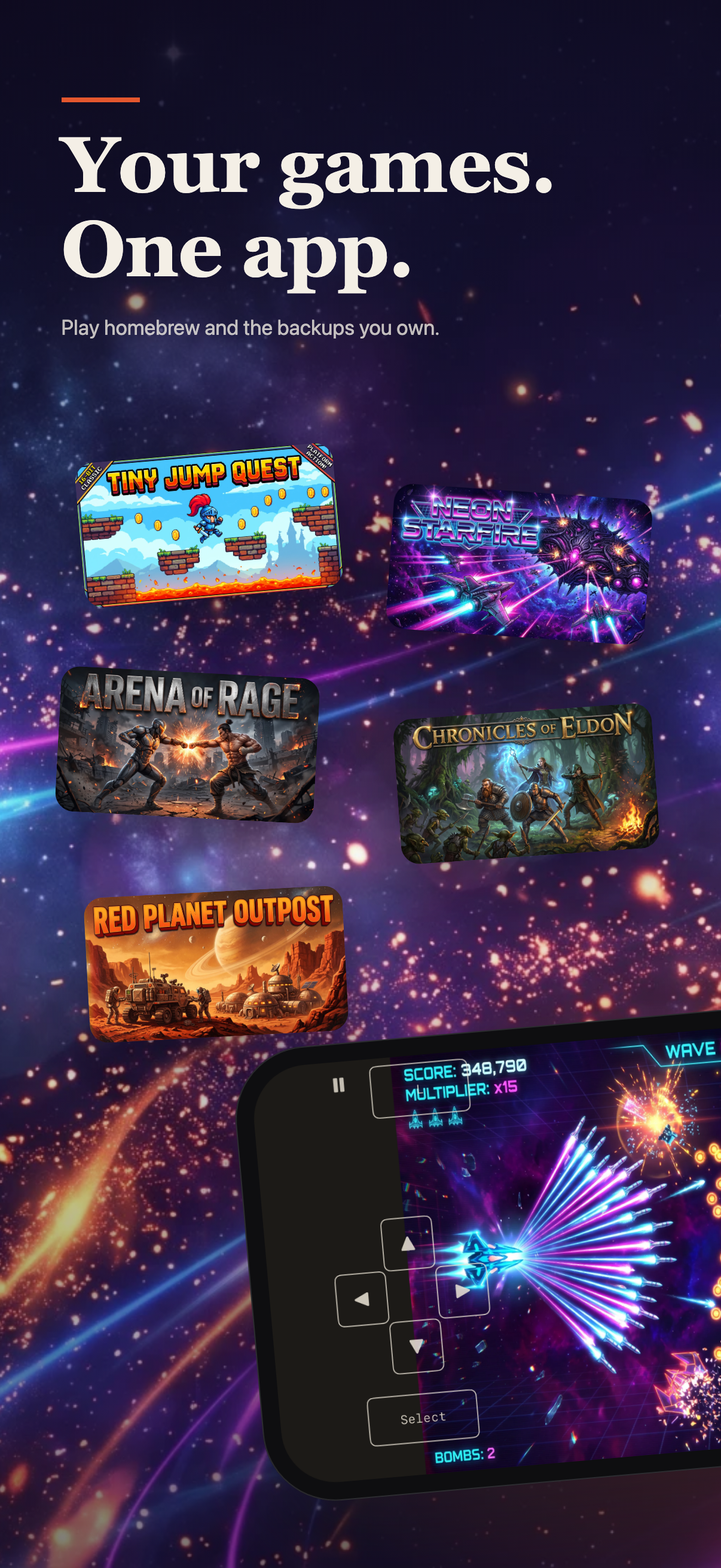
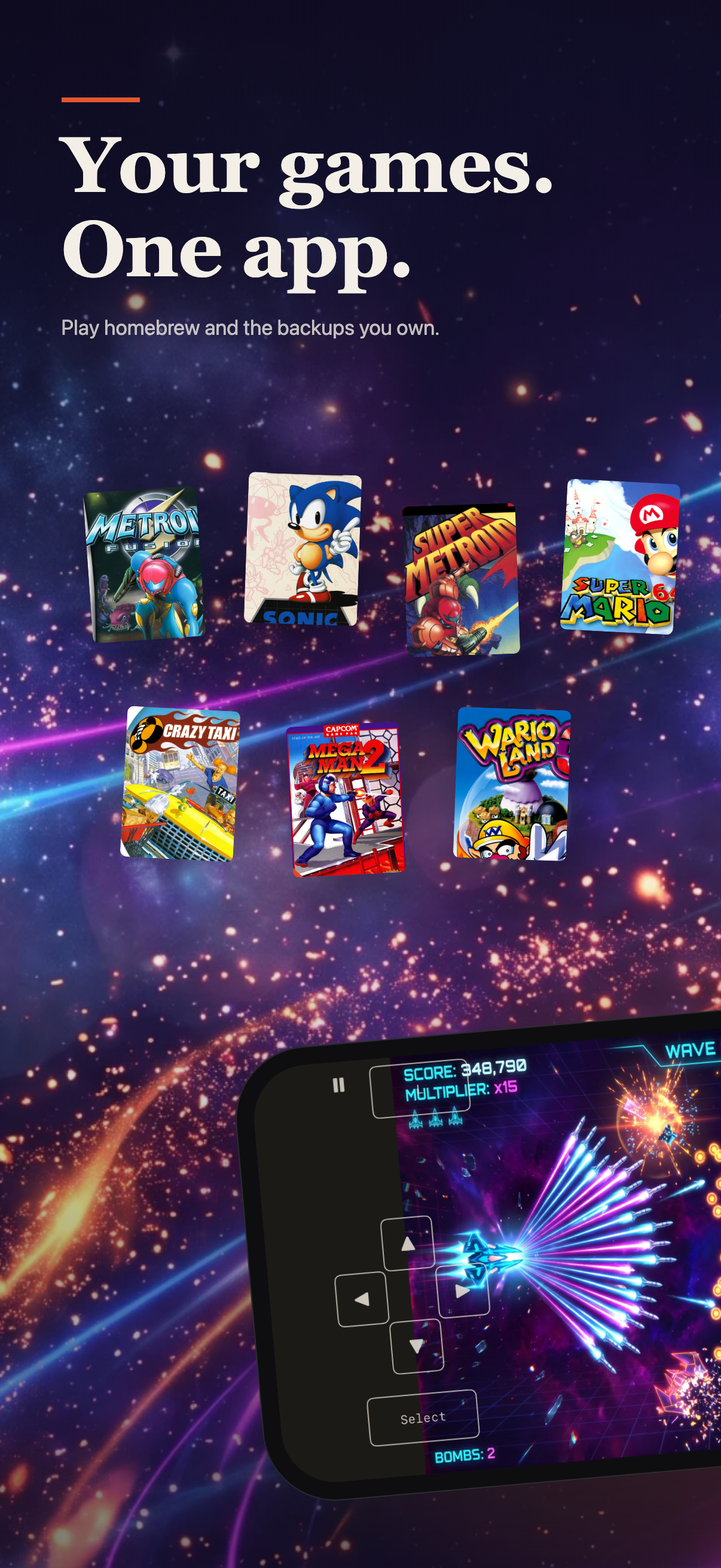
feat(store): real libretro-thumbnails box art, thumbnail-sized, on the store shots, header, search and retention art
Ten covers cut from Named_Boxarts by scripts/store/real_covers.swift into design/store/source/covers-real
(platform bands, console-maker logos and rating marks cropped off). store.html shows them only as small
shelf tiles. seed_device.sh takes an optional titles file kept outside the repo; testStoreShots plays the
game GAGA_STORE_GAME names.

Changed region(s): [[0.0614, 0.278, 0.9511, 0.6796]]

diff --git a/design/store/store.html b/design/store/store.html
@@ -98,8 +98,11 @@ function glow(s, x, y, r, color) {
                      background: `radial-gradient(circle, ${color} 0%, transparent 70%)`, zIndex: 1 });
 }
 
-const C = n => `source/cover-${String(n).padStart(2, "0")}.png`;
+// Real box art (scripts/store/real_covers.swift), always thumbnail-sized: never the hero.
+const C = n => `source/covers-real/cover-${String(n).padStart(2, "0")}.png`;
 const S = n => `screens/${n}.png`;
+/// A small cover, w as a fraction of H, 3:4.
+const cover = (s, x, y, w, n, rot = 0, z = 2) => card(s, x, y, w, C(n), { rot, aspect: 3 / 4, z, radius: 0.004 });
 
 function storeShots() {
   pano.style.width = px(9 * W); pano.style.height = px(H);
@@ -110,8 +113,9 @@ function storeShots() {
   background(1, 2, { backgroundImage: "url(source/background.png)" });
   el("div", "bg", { left: "0px", width: px(2 * W), height: px(H), background: "linear-gradient(180deg, rgba(14,10,30,.78) 0%, rgba(14,10,30,.2) 30%, rgba(14,10,30,0) 55%, rgba(14,10,30,.55) 100%)", zIndex: 0 });
   caption(1, "Your games.<br>One app.", "Play homebrew and the backups you own.", { dark: true, size: 0.05 });
-  [[0.29, 0.335, 1, -5], [0.72, 0.36, 3, 4], [0.26, 0.475, 6, 3], [0.73, 0.5, 2, -4], [0.3, 0.615, 9, -3]]
-    .forEach(([x, y, n, r]) => card(1, x, y, 0.165, C(n), { rot: r, z: 2 }));
+  [[0.2, 0.36, 1, -4], [0.42, 0.35, 4, 2], [0.64, 0.37, 2, -2], [0.86, 0.355, 6, 3],
+   [0.25, 0.5, 9, 3], [0.48, 0.51, 3, -3], [0.71, 0.5, 7, 2]]
+    .forEach(([x, y, n, r]) => cover(1, x, y, 0.072, n, r));
   phone(1, 1.0, 0.79, 0.58, S("play-landscape"), { land: true, rot: -5, z: 5 });
   glow(1, 1.0, 0.79, 0.3, "rgba(228,87,46,.35)");
   caption(2, "Landscape, with<br>the controls on top.", "Touch buttons sit over the picture, never in its way.", { dark: true });
@@ -123,8 +127,8 @@ function storeShots() {
   background(3, 1, { background: "var(--paper)" });
   caption(3, "One shelf for the<br>games you own.", "Your own covers, sorted the way you like.");
   phone(3, 0.5, 0.62, 0.68, S("library"), { rot: 0, z: 3 });
-  card(3, 0.17, 0.4, 0.12, C(8), { rot: -9, z: 2 });
-  card(3, 0.84, 0.8, 0.12, C(4), { rot: 7, z: 4 });
+  cover(3, 0.13, 0.4, 0.07, 8, -8);
+  cover(3, 0.87, 0.8, 0.07, 5, 7, 4);
 
   // 4-5: touch, then a controller; the pad sits across the edge.
   background(4, 2, { background: "var(--paper)" });
@@ -151,7 +155,7 @@ function storeShots() {
   // 8: per-game options and cheats.
   background(8, 1, { background: "var(--surface)" });
   caption(8, "Options and cheats<br>for each game.", "Add a code or import a .cht file.");
-  card(8, 0.78, 0.33, 0.17, C(5), { rot: 6, z: 2 });
+  cover(8, 0.84, 0.31, 0.075, 10, 6);
   phone(8, 0.47, 0.64, 0.64, S("cheats"), { rot: -2, z: 3 });
 
   // 9: saves, sync, nearby.
@@ -177,17 +181,20 @@ function artwork(kind) {
     el("div", "rule", { left: px(W * 0.07), top: px(H * 0.3), width: px(H * 0.07), height: px(H * 0.006) });
     head(0.07, 0.33, 0.12, "GagaEmu", "var(--paper)");
     sub(0.072, 0.5, 0.04, "Your games. One app.", "rgba(244,239,230,.85)");
-    [[0.62, 0.22, 1, -6], [0.86, 0.2, 3, 5], [0.9, 0.8, 6, -4], [0.55, 0.82, 2, 4]].forEach(([x, y, n, r]) => card(1, x, y, 0.3, C(n), { rot: r }));
+    // A shelf of small covers along the bottom, under the phone.
+    [1, 4, 2, 6, 9, 3, 7, 5].forEach((n, i) => cover(1, 0.42 + i * 0.068, 0.86, 0.11, n, [-3, 2, -2, 3, -3, 2, -2, 3][i]));
     phone(1, 0.72, 0.52, 0.86, S("play-landscape"), { land: true, rot: -4, z: 5 });
   } else if (kind === "search") {
-    [[0.17, 0.25, 3, -6], [0.83, 0.25, 1, 6], [0.15, 0.76, 9, 5], [0.85, 0.76, 6, -5]].forEach(([x, y, n, r]) => card(1, x, y, 0.3, C(n), { rot: r }));
+    [[0.09, 0.3, 3, -5], [0.2, 0.22, 1, 4], [0.11, 0.72, 9, 4], [0.22, 0.8, 7, -3],
+     [0.8, 0.2, 4, 5], [0.91, 0.3, 2, -4], [0.78, 0.8, 6, -4], [0.89, 0.72, 10, 3]]
+      .forEach(([x, y, n, r]) => cover(1, x, y, 0.13, n, r));
     phone(1, 0.5, 0.5, 0.95, S("play-landscape"), { land: true, rot: -3, z: 5 });
   } else {
     el("div", "rule", { left: px(W * 0.08), top: px(H * 0.3), width: px(H * 0.07), height: px(H * 0.006) });
     head(0.08, 0.33, 0.09, "Pick up where<br>you left off.", "var(--ink)");
     sub(0.082, 0.58, 0.035, "Your shelf, your saves, your games.", "var(--muted)");
-    card(1, 0.86, 0.27, 0.26, C(2), { rot: 6 });
-    card(1, 0.88, 0.75, 0.26, C(8), { rot: -5 });
+    cover(1, 0.89, 0.27, 0.13, 2, 6);
+    cover(1, 0.9, 0.76, 0.13, 8, -5);
     phone(1, 0.66, 0.52, 0.84, S("library"), { rot: -4, z: 5 });
   }
 }

diff --git a/scripts/store/real_covers.swift b/scripts/store/real_covers.swift
@@ -1,0 +1,51 @@
+// Cuts the real box art used, small, on the store shelves into design/store/source/covers-real/cover-01..10.png
+// (600 x 800, the Library's 3:4).
+//
+//     swift scripts/store/real_covers.swift <boxarts-dir>
+//
+// <boxarts-dir> holds Named_Boxarts PNGs from the libretro-thumbnails project (thumbnails.libretro.com), the same
+// source the app's Cover Art uses, saved as 01.png ... by the fetch list kept with the owner. Box art only: no ROMs.
+// Each crop drops the platform band, console-maker logos and rating marks, keeping the game's own art and title.
+import AppKit
+import ImageIO
+import UniformTypeIdentifiers
+
+let root = URL(fileURLWithPath: #filePath).deletingLastPathComponent().deletingLastPathComponent().deletingLastPathComponent()
+guard CommandLine.arguments.count == 2 else { print("usage: real_covers.swift <boxarts-dir>"); exit(2) }
+let src = URL(fileURLWithPath: CommandLine.arguments[1])
+let out = root.appendingPathComponent("design/store/source/covers-real")
+try FileManager.default.createDirectory(at: out, withIntermediateDirectories: true)
+
+// Source file and crop (x0, y0, x1, y1) as fractions of the box art, top-left origin.
+let covers: [(file: String, crop: (Double, Double, Double, Double))] = [
+    ("01", (0.19, 0.00, 0.83, 0.82)),   // Game Boy Advance
+    ("02", (0.00, 0.00, 0.45, 0.80)),   // Super NES
+    ("03", (0.04, 0.00, 0.96, 0.84)),   // NES
+    ("04", (0.10, 0.09, 0.90, 0.86)),   // Mega Drive
+    ("05", (0.16, 0.00, 0.88, 1.00)),   // PlayStation
+    ("06", (0.05, 0.02, 0.55, 0.98)),   // Nintendo 64
+    ("07", (0.21, 0.00, 0.84, 0.76)),   // Game Boy Color
+    ("08", (0.12, 0.00, 0.79, 0.90)),   // PC Engine
+    ("11", (0.12, 0.00, 0.85, 0.95)),   // Dreamcast
+    ("13", (0.19, 0.00, 0.78, 0.78)),   // Game Boy
+]
+
+let W = 600, H = 800
+for (i, c) in covers.enumerated() {
+    let s = CGImageSourceCreateWithURL(src.appendingPathComponent("\(c.file).png") as CFURL, nil)!
+    let img = CGImageSourceCreateImageAtIndex(s, 0, nil)!
+    let (w, h) = (Double(img.width), Double(img.height))
+    var r = CGRect(x: c.crop.0 * w, y: c.crop.1 * h, width: (c.crop.2 - c.crop.0) * w, height: (c.crop.3 - c.crop.1) * h)
+    // Trim the crop to 3:4 about its centre, so nothing is stretched.
+    if r.width / r.height > 0.75 { r = r.insetBy(dx: (r.width - r.height * 0.75) / 2, dy: 0) }
+    else { r = r.insetBy(dx: 0, dy: (r.height - r.width / 0.75) / 2) }
+    let ctx = CGContext(data: nil, width: W, height: H, bitsPerComponent: 8, bytesPerRow: 0, space: CGColorSpace(name: CGColorSpace.sRGB)!,
+                        bitmapInfo: CGImageAlphaInfo.noneSkipLast.rawValue)!
+    ctx.interpolationQuality = .high
+    ctx.draw(img.cropping(to: r.integral)!, in: CGRect(x: 0, y: 0, width: W, height: H))
+    let url = out.appendingPathComponent(String(format: "cover-%02d.png", i + 1))
+    let d = CGImageDestinationCreateWithURL(url as CFURL, UTType.png.identifier as CFString, 1, nil)!
+    CGImageDestinationAddImage(d, ctx.makeImage()!, nil)
+    precondition(CGImageDestinationFinalize(d), "write failed \(url.path)")
+}
+print("\(covers.count) covers -> \(out.path)")

diff --git a/UITests/GagaEmuWalkTests.swift b/UITests/GagaEmuWalkTests.swift
@@ -1289,6 +1289,8 @@ final class GagaEmuWalkTests: XCTestCase {
     /// App Store screenshots (scripts/store/): a Library of ten invented games with their covers, seeded from
     /// Documents/StoreSeed (scripts/store/seed_device.sh copies it there), then one game played, its pause pages,
     /// and the Settings and Style pages the store shots show. Upright unless named. Shots are `STORE <nn> <what>`.
+    /// `GAGA_STORE_GAME` (TEST_RUNNER_GAGA_STORE_GAME from xcodebuild) names the seeded game to play when the shelf
+    /// is seeded with other titles.
     func testStoreShots() throws {
         continueAfterFailure = true
         XCUIDevice.shared.orientation = .portrait
@@ -1296,7 +1298,8 @@ final class GagaEmuWalkTests: XCTestCase {
         app.launchArguments = ["-GagaStoreSeed", "StoreSeed", "-GagaDefaultDisplay", "-GagaPerRow", "3"]
         app.launchEnvironment["MTL_HUD_ENABLED"] = "0"   // A device with the Metal HUD on would draw it over the game.
         launch(app)
-        let cover = app.buttons.matching(NSPredicate(format: "label BEGINSWITH %@", "Neon Starfire")).firstMatch
+        let played = ProcessInfo.processInfo.environment["GAGA_STORE_GAME"] ?? "Neon Starfire"
+        let cover = app.buttons.matching(NSPredicate(format: "label BEGINSWITH %@", played)).firstMatch
         try arrive(cover, "The seeded Library")
         sleep(10)   // Lets the Game Center welcome banner come and go.
         snapshot("STORE 01 Library")
@@ -1305,7 +1308,7 @@ final class GagaEmuWalkTests: XCTestCase {
         snapshot("STORE 02 Library landscape")
         XCUIDevice.shared.orientation = .portrait
         sleep(3)
-        try guardedTap(cover, "Neon Starfire")
+        try guardedTap(cover, played)
         try arrive(startOnPage(app), "The game page")
         sleep(2)
         snapshot("STORE 03 Game page")
